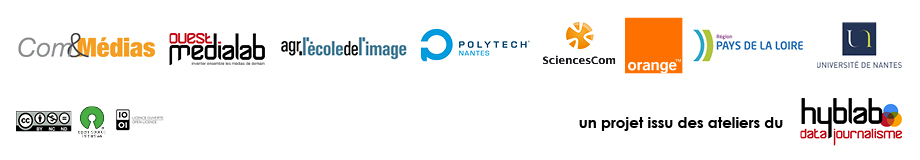
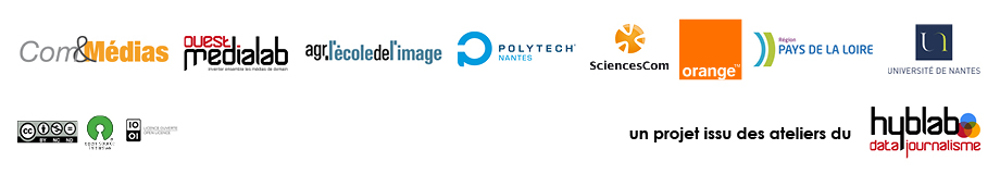
Corrections sur France 3

diff --git a/france_3_pdll/dataviz.html b/france_3_pdll/dataviz.html
@@ -279,18 +279,18 @@
 		</div>
 <!--end of dataviz6 -->
 		<footer>
+			<img id="crédit" src="img/credit.png"/>
 			<img usemap="#partner" src="img/Bandeau partenaire Com&medias.jpg"/>
 			<map name="partner">
-				<area alt="" title="" shape="rect" coords="16,110,163,131" />
-				<area alt="" title="" href="http://www.cometmedias.com/" shape="rect" coords="13,29,156,62" />
-				<area alt="" title="" href="http://www.ouestmedialab.fr/" shape="rect" coords="164,29,271,68" />
-				<area alt="" title="" href="http://www.agrnantes.fr/" shape="rect" coords="276,33,409,66" />
-				<area alt="" title="" href="http://web.polytech.univ-nantes.fr/" shape="rect" coords="415,29,533,61" />
-				<area alt="" title="" href="http://www.sciencescom.org/" shape="rect" coords="541,16,619,68" />
-				<area alt="" title="" href="http://www.orange.fr/" shape="rect" coords="624,18,683,73" />
-				<area alt="" title="" href="http://www.paysdelaloire.fr/" shape="rect" coords="689,25,807,62" />
-				<area alt="" title="" href="http://www.univ-nantes.fr/" shape="rect" coords="813,15,908,73" />
-				<area alt="" title="" href="http://www.hyblab.fr/" shape="rect" coords="790,93,909,144" />
+				<area alt="" title="" href="http://www.cometmedias.com/" shape="rect" coords="16,72,170,36" />
+				<area alt="" title="" href="http://www.ouestmedialab.fr/" shape="rect" coords="179,74,293,35" />
+				<area alt="" title="" href="http://www.agrnantes.fr/" shape="rect" coords="301,69,445,36" />
+				<area alt="" title="" href="http://web.polytech.univ-nantes.fr/" shape="rect" coords="581,69,454,30" />
+				<area alt="" title="" href="http://www.sciencescom.org/" shape="rect" coords="588,73,668,17" />
+				<area alt="" title="" href="http://www.orange.fr/" shape="rect" coords="677,79,741,19" />
+				<area alt="" title="" href="http://www.paysdelaloire.fr/" shape="rect" coords="750,69,877,31" />
+				<area alt="" title="" href="http://www.univ-nantes.fr/" shape="rect" coords="884,79,983,15" />
+				<area alt="" title="" href="http://www.hyblab.fr/" shape="rect" coords="866,104,990,153" />
 			</map>
 		</footer>
 

diff --git a/france_3_pdll/dataviz.css b/france_3_pdll/dataviz.css
@@ -188,9 +188,9 @@
 
 	#text_graph_droite
 	{
-		font-family: 'armataregular';
+		font-family: 'bebas_neueregular';
 		font-weight: bold;
-		font-size: 75px;
+		font-size: 60px;
 		text-align: center;
 		width: 50%;
 		float:left;
@@ -204,9 +204,9 @@
 
 	#text_graph_gauche
 	{
-		font-family: 'armataregular';
+		font-family: 'bebas_neueregular';
 		font-weight: bold;
-		font-size: 75px;
+		font-size: 60px;
 		text-align: center;
 		width: 50%;
 		float:left;
@@ -643,8 +643,22 @@
 	}
 /* } */
 
-footer
+footer .img
 {
 	padding-top: 25px;
 }
 
+.partner
+{
+	margin-left: auto;
+	margin-right: auto;
+	width:100%;
+	max-width: 1000px;
+}
+
+#crédit
+{
+	padding: 25px;
+	width:100%;
+	max-width: 1000px;
+}
